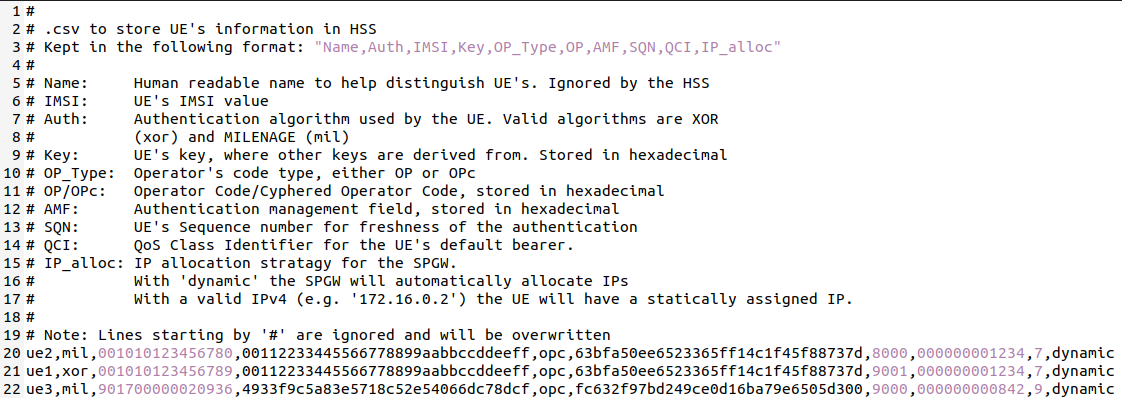
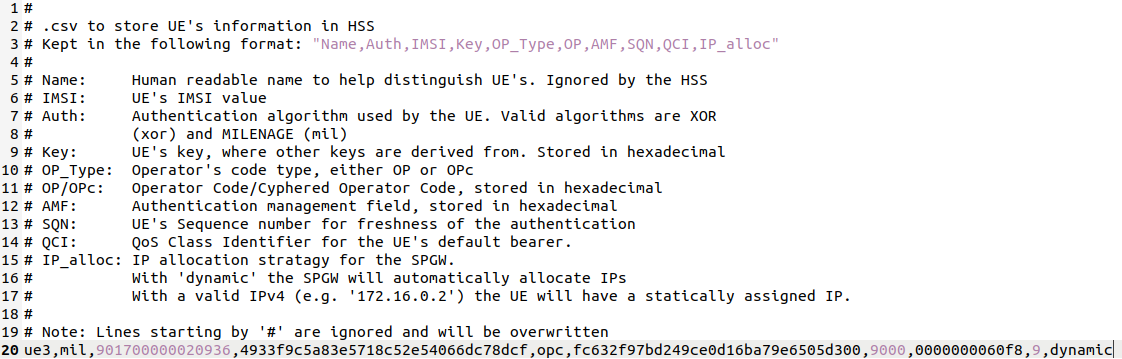
Adjusted image sizes

Changed region(s): [[0.0, 0.0, 0.9982, 1.0]]

diff --git a/srslte_user_manuals/source/app_notes/source/cots_ue/source/index.rst b/srslte_user_manuals/source/app_notes/source/cots_ue/source/index.rst
@@ -132,7 +132,7 @@ This will result in a user_db.csv file that should look something like the follo
 	.. image:: .imgs/user_db.png
 		:align: center
 
-Line 22 shows the entry for the USIM being used in the COTS UE. The values assigned to the AMF, SQN, QCI & IP Alloc are default values above, 
+Line 20 shows the entry for the USIM being used in the COTS UE. The values assigned to the AMF, SQN, QCI & IP Alloc are default values above, 
 as outlined :ref:`here <config_csv>` in the EPC documentation. Ensure there is no white space between the values in each entry, as this will cause 
 the file to be read incorrectly. 
 
@@ -145,13 +145,12 @@ From the UE navigate to the Network settings for the SIM being used. From here a
 
 	.. image:: .imgs/apn_ue.jpg
 		:align: center
-		:height: 250px
+		:height: 360px
 
 The addition of this APN must be reflected in the EPC config file, to do this add the APN to the config. This is shown in the following figure: 
 
 	.. image:: .imgs/apn_epc.png
 		:align: center
-		:height: 250px
 		
 The APN has been added at line 30 in the above figure. This must match the APN on the UE to enable a successful connection. 
 
@@ -230,19 +229,19 @@ You can now connect the UE to the network by taking the following steps:
 
 	.. image:: .imgs/ue_settings.jpg
 		:align: center
-		:height: 250px
+		:height: 360px
 
 	- Open this menu and proceed to the sub-menu associated with the USIM being used. It should look something like the following: 
 
 	.. image:: .imgs/sim_settings.jpg
 		:align: center
-		:height: 250px
+		:height: 360px
 
 	- Under the Network Operators find the network which you have just instantiated using srsLTE
 
 	.. image:: .imgs/networks.jpg
 		:align: center
-		:height: 250px
+		:height: 360px
 
 	- Select the network that is a combination of your MMC & MNC values. For this example it is the network labelled 90170 4G. The UE should then automatically connect to the network. 
 	
@@ -261,7 +260,7 @@ logs, then an attach is successful. These messages are seen in the last five lin
 
 	.. image:: .imgs/epc_attach.png
 		:align: center
-		:height: 400px
+		:height: 600px
 
 **eNB Logs:**
 
@@ -274,7 +273,7 @@ The following figure shows an output from the eNB that indicates a successful at
 
 	.. image:: .imgs/enb_attach.png
 		:align: center
-		:height: 240px
+		:height: 300px
 
 The UE is now connected to the network. and should now automatically connect to this network each time it is powered on. You should keep the UE in aeroplane mode until you want to connect it to the network. The UE 
 should now also have access to the internet - as if connected to a standard 4G network.
